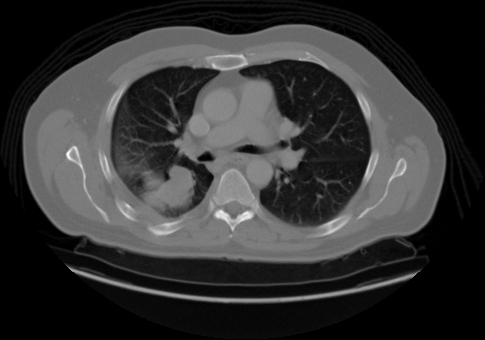
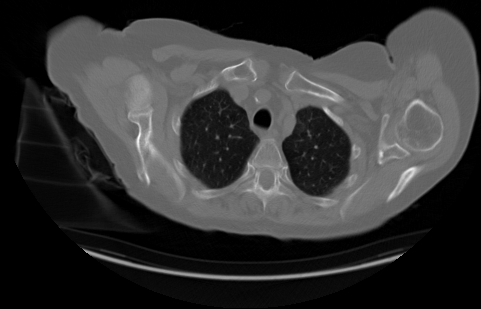
README updated

diff --git a/README.md b/README.md
@@ -70,25 +70,45 @@ Each stage is reproducible; reruns attach to a specific dataset snapshot via DVC
 
 Prerequisites
 
-Python 3.10+
+- Python **3.10 or 3.11** (required — TensorFlow is not compatible with Python 3.12+)
+- Git
+- DVC (pip install dvc + your remote extra, e.g. dvc[s3])
+- Docker (optional but recommended)
 
-Git, DVC (pip install dvc + your remote extra, e.g. dvc[s3])
-
-Docker (optional but recommended)
 
 
-1) Clone & create environment
+1) Clone the repository
 
-   git clone https://github.com/varunsardana/Chest-Classification-using-MLflow-DVC
-   
-   cd Chest-Classification-using-MLflow-DVC
-   
+  ```bash
+  git clone https://github.com/varunsardana/Chest-Classification-using-MLflow-DVC
+  cd Chest-Classification-using-MLflow-DVC
+
+
+2) Create and activate a virtual environment
+   Option A: Conda (if installed)
+
    conda create -n cancerenv python=3.10 -y
-   
    conda activate cancerenv
-   
+
+
+   Option B: venv (recommended if conda is unavailable)
+
+   python3.10 -m venv .venv
+   source .venv/bin/activate
+
+
+   Install dependencies
+   pip install --upgrade pip
    pip install -r requirements.txt
 
+
+   Apple Silicon (M1 / M2 / M3) note
+
+   If TensorFlow crashes on macOS, install the Apple-maintained build:
+   pip uninstall -y tensorflow
+   pip install tensorflow-macos
+  
+  
 3) Pull versioned data (DVC)
    Configure your DVC remote if needed (example)
    dvc remote add -d storage s3://<bucket>/<path>
